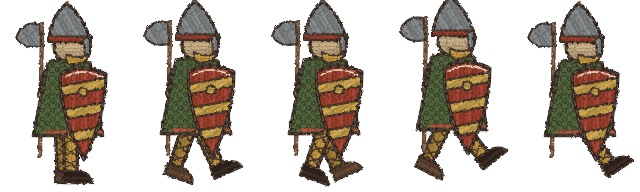
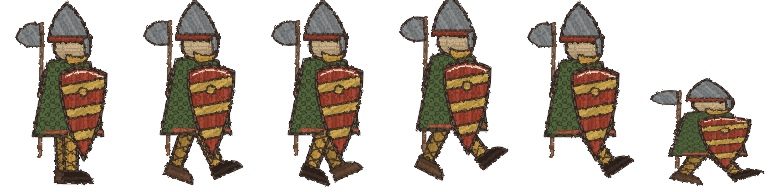
Crouch; a gallery of the real tapestries
- Crouch: hold DOWN (or pull the touch joystick down) on foot. A hunched
  knight about one tile high that creeps slowly; stands up when there is
  room. Ducks spears, comfits and stars. Riding still uses DOWN to dismount.
  New 'crouch' frame in every knight's sheet.
- Ye Tapestries: a title-screen gallery with a page for each of the six real
  tapestries (picture, where and when it was made, where it is now, and how
  it appears in the game) and a last page on the beasts, Bayard and the Cat
  King. Facts checked against museum and reference sources, with the
  uncertain ones (Devonshire origin, patrons) worded as uncertain.
- About page 2 and 3 mention crouching and the gallery.

Claude-Session: https://claude.ai/code/session_01Ub925vA7W77qaH7zf1hUDR

diff --git a/unity/Assets/Scripts/Game/GameManager.cs b/unity/Assets/Scripts/Game/GameManager.cs
@@ -9,7 +9,7 @@ namespace Tapestry
     {
         public static GameManager I { get; private set; }
 
-        enum State { Title, Playing, Paused, Dying, Won, GameOver, Entering, Briefing, Ending, Paywall, About }
+        enum State { Title, Playing, Paused, Dying, Won, GameOver, Entering, Briefing, Ending, Paywall, About, Tapestries }
         State state = State.Title;
 
         const float ViewHalfHeight = 5.625f;           // 540 design px tall = 11.25 tiles
@@ -119,9 +119,85 @@ namespace Tapestry
         }
 
         Rect UnlockLinkRect() { return new Rect(Screen.width * 0.5f - U * 0.35f, Screen.height * 0.9f, U * 0.7f, U * 0.07f); }
+        Rect TapestriesLinkRect() { return new Rect(Screen.width * 0.02f, Screen.height * 0.9f, U * 0.42f, U * 0.07f); }
         Rect AboutLinkRect() { return new Rect(Screen.width * 0.98f - U * 0.42f, Screen.height * 0.9f, U * 0.42f, U * 0.07f); }
 
         // ---- the "what is this?" screen: shown the first time the game is opened, and from a link on the title screen
+        // ---- "Ye Tapestries": the real tapestries behind the game, one page each (reached from the title screen)
+        class TapestryInfo { public string Name, Where, Picture, Text, InGame; }
+        static readonly TapestryInfo[] TapestryPages =
+        {
+            new TapestryInfo { Name = "Ye Bayeux Tapestrie", Where = "Worlde 1 and 2  -  embroidered in England in ye 1070s; now at Bayeux, Normandy", Picture = "backgrounds/far",
+                Text = "About 68 metres long and half a metre tall, it telleth how William of Normandy conquered England, ending at ye Battle of Hastings in 1066. It is not truly a tapestry at all, but wool embroidered upon linen. It was most likely ordered by Bishop Odo of Bayeux, William's half-brother, and stitched by English embroiderers, perhaps at Canterbury. Look for ye mysterious lady named Aelfgyva, shown beside a priest: nobody knoweth who she was.",
+                InGame = "Worlde 1 and ye sea crossing of Worlde 2 borrow its stitched wool-on-linen look, its horsemen, hounds and felled trees, and its longships. Princesse Aelfgyva is named for that mysterious lady." },
+            new TapestryInfo { Name = "Ye Tapestrie of Creacioun", Where = "Worlde 3  -  embroidered about 1100; now in Girona Cathedral, Catalonia", Picture = "backgrounds/creation_far",
+                Text = "A great Romanesque embroidery in wool, couched upon linen, of which about 3.7 by 4.7 metres survive. Christ sitteth at ye centre of circles; ye four winds blow in ye corners; and a border telleth ye months of ye yeare. Scholars date it to ye 11th or 12th century, and are not agreed what it was for: an altar canopy, a curtain, or a carpet.",
+                InGame = "Worlde 3 is set in its sky: ye wind-heads that blow thee about, ye sun and moon, and ye Wheel of ye Yeare in a castle of turning wheels." },
+            new TapestryInfo { Name = "Ye Devonshire Hunting Tapestries", Where = "Worlde 4  -  woven in ye Low Countries, probably at Arras, about 1425-1450; now in ye Victoria and Albert Museum, London", Picture = "backgrounds/verdure_far",
+                Text = "Four huge woven hangings: a boar and bear hunt, an otter and swan hunt, a deer hunt, and falconry. They shew lords and ladies in fashionable dress hunting through woods crowded with leaves and flowers. Ye Dukes of Devonshire kept them at Hardwick Hall until they came to ye museum in 1957. From these, ye game's art turneth from stitched to woven.",
+                InGame = "Worlde 4 hath ye hounds, boars, otters, swans and falcons of those hunts, ye dense leafy verdure, and ye Greate Boar." },
+            new TapestryInfo { Name = "Ye Unicorne Tapestries", Where = "Worlde 5  -  seven hangings, about 1495-1505, probably designed in Paris and woven in Brussels; now at ye Cloisters, New York", Picture = "backgrounds/millefleur_far",
+                Text = "Wool, silk and gilded thread. They follow hunters who seek, chase and at last take ye unicorn, who endeth chained to a pomegranate tree within a little fence. In one, ye unicorn dippeth its horn to purify a poisoned stream. Ye letters AE are woven into ye hangings, but nobody knoweth whose they were.",
+                InGame = "Worlde 5 hath ye hunters and hounds, ye poisoned stream that ye unicorn's horn maketh pure, and ye unicorn in its fence: here it is spared, and becometh thy steede." },
+            new TapestryInfo { Name = "Ye Ladye and ye Unicorne", Where = "Worlde 6  -  six hangings, about 1500, probably woven in Flanders from designs made in Paris; now in ye Musee de Cluny, Paris", Picture = "backgrounds/red_far",
+                Text = "Five hangings shew ye senses: taste, hearing, sight, smell and touch. Ye sixth beareth ye words A mon seul desir (To my sole desire), and its meaning is still a mystery. A lady standeth on a blue island of flowers before a red ground strewn with flowers and little beastes, with a lion and a unicorn at her sides. Ye arms of ye Le Viste family appear upon them, but who ordered them is still debated.",
+                InGame = "Worlde 6: Sight (ye mirrour), Hearing (ye organ), Taste and Smell, and ye Ladye's tente, where ye Lyon and ye Unicorne guard her." },
+            new TapestryInfo { Name = "Ye Apocalypse of Angers", Where = "Worlde 7  -  woven in Paris in ye 1370s and 1380s; now in ye Chateau d'Angers, France", Picture = "backgrounds/apoc_far",
+                Text = "Ordered by Louis I, Duke of Anjou, about 1373, from designs by Hennequin de Bruges, painter to King Charles V, and woven in ye workshop of Nicolas Bataille. It told ye Book of Revelation: ye seven trumpets, ye locusts, ye four horsemen and ye beast with seven heads. It was about 140 metres long, and roughly 100 metres survive. Its scenes sit against alternating red and blue grounds.",
+                InGame = "Worlde 7: ye seven trumpets, ye crowned locusts, ye four horsemen and ye Beaste of Seven Heddes, then ye Cat King's own hall." },
+            new TapestryInfo { Name = "Beastes, Bayard and ye Cat King", Where = "Whence ye rest came", Picture = "backgrounds/castle_far",
+                Text = "Ye strange beastes come from medieval bestiaries: Aspidochelone, ye whale that sailors mistook for an island; ye cockatrice; ye hippocamp; ye man-faced owl. Bayard is named for ye magic horse of ye old romance of ye Four Sons of Aymon, who could carry all four brothers at once. Ye knights, ye Cat King and his Soup Cats are inventions of this game, and alle ye pictures were drawn for it, in ye manner of ye old tapestries. Ye true tapestries themselves are centuries old; if thou art ever near one, go and see it.",
+                InGame = "" },
+        };
+        int tapestryPage;
+
+        Rect TapPrevZone() { return new Rect(0, Screen.height * 0.2f, Screen.width * 0.16f, Screen.height * 0.7f); }
+        Rect TapBackRect() { return new Rect(Screen.width * 0.5f - U * 0.3f, Screen.height * 0.92f, U * 0.6f, U * 0.07f); }
+
+        void TickTapestries()
+        {
+            if (stateTime < 0.3f) return;
+            bool next = TapestryInput.JumpPressed || TapestryInput.RightPressed || TapestryInput.StartPressed;
+            bool prev = TapestryInput.LeftPressed, back = TapestryInput.RunPressed || TapestryInput.DownPressed;
+            if (TapestryInput.TapPosition.HasValue)
+            {
+                var tap = TapestryInput.TapPosition.Value;
+                if (TapBackRect().Contains(tap)) back = true;
+                else if (TapPrevZone().Contains(tap)) prev = true;
+                else next = true;
+            }
+            if (back) { Audio.Play("select"); SetState(State.Title); }
+            else if (prev && tapestryPage > 0) { tapestryPage--; Audio.Play("select"); stateTime = 0f; }
+            else if (next)
+            {
+                Audio.Play("select");
+                if (++tapestryPage >= TapestryPages.Length) SetState(State.Title); else stateTime = 0f;
+            }
+        }
+
+        void DrawTapestries(float W, float H)
+        {
+            Panel(new Rect(0, 0, W, H));
+            var p = TapestryPages[tapestryPage];
+            // a strip of the tapestry's own art, framed
+            float bh = H * 0.27f, bw = Mathf.Min(W * 0.8f, bh * 4.4f); bh = bw / 4.4f;
+            var br = new Rect((W - bw) * 0.5f, H * 0.03f, bw, bh);
+            var c = GUI.color; GUI.color = new Color(0.2f, 0.145f, 0.114f, 0.9f);
+            GUI.DrawTexture(new Rect(br.x - 5f, br.y - 5f, br.width + 10f, br.height + 10f), Texture2D.whiteTexture); GUI.color = c;
+            var tex = Art.Texture(p.Picture);
+            if (tex != null) GUI.DrawTextureWithTexCoords(br, tex, new Rect(0f, 0.3f, 1f, 0.4f));
+            float y = br.yMax + H * 0.02f;
+            GUI.Label(new Rect(0, y, W, U * 0.08f), p.Name, big); y += U * 0.085f;
+            GUI.Label(new Rect(W * 0.1f, y, W * 0.8f, U * 0.08f), p.Where, center); y += U * 0.085f;
+            GUI.Label(new Rect(W * 0.1f, y, W * 0.8f, H * 0.9f - y - U * 0.1f),
+                p.Text + (string.IsNullOrEmpty(p.InGame) ? "" : "\n\nIn ye game:  " + p.InGame), tipText);
+            var cc = GUI.color; GUI.color = new Color(1f, 1f, 1f, 0.55f + 0.45f * Mathf.Abs(Mathf.Sin(Time.time * 2.5f)));
+            if (tapestryPage > 0) GUI.Label(new Rect(W * 0.01f, H * 0.5f, W * 0.1f, U * 0.1f), "<", big);
+            GUI.Label(new Rect(W * 0.89f, H * 0.5f, W * 0.1f, U * 0.1f), ">", big);
+            GUI.Label(TapBackRect(), "Returne  (" + (tapestryPage + 1) + " of " + TapestryPages.Length + ")", center);
+            GUI.color = cc;
+        }
+
         const string SeenAboutKey = "seen:about";
         int aboutPage;
         const int AboutPages = 4;
@@ -152,12 +228,12 @@ namespace Tapestry
                 "Thy foes are strange beastes lifted from ye bestiaries and ye margins of olde manuscripts.",
 
                 (touch
-                    ? "Moove with ye joystick: push it to ye rim to runne, and pull it downe to dismounte. Ye large button leapeth (holde it to leape higher); ye small one runneth, and shooteth a crossbowe if thou bearest one."
-                    : "LEFTE and RYGHTE moove thee; holde RUNNE to runne, and it shooteth a crossbowe if thou bearest one. JUMPE leapeth (holde it to leape higher); DOWNE dismounteth.") + "\n\n" +
+                    ? "Moove with ye joystick: push it to ye rim to runne, and pull it downe to crouche (or, when thou ridest, to dismounte). Ye large button leapeth (holde it to leape higher); ye small one runneth, and shooteth a crossbowe if thou bearest one."
+                    : "LEFTE and RYGHTE moove thee; holde RUNNE to runne, and it shooteth a crossbowe if thou bearest one. JUMPE leapeth (holde it to leape higher); DOWNE crouchethe (or dismounteth, when thou ridest). Crouche to duck spears and flung sweetes, or to creepe through a low passage.") + "\n\n" +
                 "Stompe beastes from above; touche them from ye side and thou art hurte. Bumpe bricks from beneath to breake them: some hide a bezant, a capon (mendeth a herte), a golden chalice (a lyfe), a crossbowe, a holy relique (nothing may harme thee for a whyle), or Bayard ye magic horse, whom thou mayst ryde.\n\n" +
                 "Touche a halfway banner and thou shalt ryse agayne there. Mind ye Tyme, for it runneth out.",
 
-                "Seven tapestries, four realmes in each, and a castle with a mighty boss at ye ende of every one:\n\n" + tapestries.ToString(),
+                "Seven tapestries, four realmes in each, and a castle with a mighty boss at ye ende of every one:\n\n" + tapestries.ToString() + "\nTouche \"Ye Tapestries\" on ye title screene to learne of ye true tapestries that inspired them.",
 
                 "Princesse Aelfgyva hath been carried off by ye Cat King, who fleeth ever deeper into ye tapestries.\n\n" +
                 "Ryde after him with four brave knyghtes (Sir Rubeus, Dame Azura, Sir Verdain and Lady Aurelia), and Bayard ye magic horse at thy side. In every castle a good monke telleth thee that ye Princesse is in another; thou must overcome ye guardian of each, and at last ye Cat King himselfe upon his throne.\n\n" +
@@ -499,6 +575,7 @@ namespace Tapestry
                     break;
                 case State.Paywall: TickPaywall(); break;
                 case State.About: TickAbout(); break;
+                case State.Tapestries: TickTapestries(); break;
                 case State.Ending:   // the story told, scrolling up; then back to the title
                     if (stateTime > 5f && (TapestryInput.JumpPressed || TapestryInput.StartPressed || TapestryInput.TapPosition.HasValue) || stateTime > EndingLength)
                     { levelIndex = 0; checkpointClaimed = false; LoadLevel(); SetState(State.Title); }
@@ -536,6 +613,7 @@ namespace Tapestry
                 case State.Title: Audio.Music("title"); break;
                 case State.Briefing: Audio.Music(L.Music); break;
                 case State.About: Audio.Music("title"); if (was != State.About) aboutPage = 0; break;
+                case State.Tapestries: if (was != State.Tapestries) tapestryPage = 0; break;
                 case State.Ending: Audio.Music("ending", false); break;
                 case State.Playing:
                     if (was == State.Paused) Audio.ResumeMusic();
@@ -694,6 +772,8 @@ namespace Tapestry
             if (TapestryInput.LeftPressed) { knightIndex = (knightIndex + n - 1) % n; Audio.Play("select"); }
             if (TapestryInput.RightPressed) { knightIndex = (knightIndex + 1) % n; Audio.Play("select"); }
             bool go = stateTime > 0.3f && (TapestryInput.JumpPressed || TapestryInput.StartPressed);
+            if (TapestryInput.TapPosition.HasValue && TapestriesLinkRect().Contains(TapestryInput.TapPosition.Value))
+            { Audio.Play("select"); SetState(State.Tapestries); return; }
             if (TapestryInput.TapPosition.HasValue && AboutLinkRect().Contains(TapestryInput.TapPosition.Value))
             { Audio.Play("select"); SetState(State.About); return; }
             if (TapestryInput.TapPosition.HasValue && !Store.Owned && UnlockLinkRect().Contains(TapestryInput.TapPosition.Value))
@@ -1418,6 +1498,7 @@ namespace Tapestry
                 case State.Ending: DrawEnding(W, H); break;
                 case State.Paywall: DrawPaywall(W, H); break;
                 case State.About: DrawAbout(W, H); break;
+                case State.Tapestries: DrawTapestries(W, H); break;
                 case State.Title:
                     Panel(new Rect(0, H * 0.12f, W, H * 0.88f));
                     if (titleStep == 1) { DrawRealmSelect(W, H); break; }
@@ -1441,6 +1522,7 @@ namespace Tapestry
                         TapestryInput.ShowTouchControls ? "Touche a knyghte to chuse, and touche agayne to ryde forth" : "LEFTE or RYGHTE to chuse thy knyghte  -  JUMPE or Entre to ryde forth", center);
                     if (!Store.Owned) GUI.Label(UnlockLinkRect(), "Unlocke Worldes 2 to 7  (touche here)", center);
                     GUI.Label(AboutLinkRect(), "What is this?", center);
+                    GUI.Label(TapestriesLinkRect(), "Ye Tapestries", center);
                     break;
 
                 case State.Playing:

diff --git a/unity/Assets/Scripts/Actors/Knight.cs b/unity/Assets/Scripts/Actors/Knight.cs
@@ -5,7 +5,7 @@ namespace Tapestry
     /// <summary>The player: Mario-style running and jumping, plus riding Bayard.</summary>
     public class Knight
     {
-        const float FootW = 0.62f, FootH = 1.72f, RideW = 1.25f, RideH = 1.9f;
+        const float FootW = 0.62f, FootH = 1.72f, RideW = 1.25f, RideH = 1.9f, CrouchH = 0.95f;   // crouched, he fits a one-tile gap
         const float RiseGravity = 24f, FallGravity = 60f, MaxFall = 17f;
 
         public readonly Body Body;
@@ -67,8 +67,13 @@ namespace Tapestry
             else
             {
             float h = stone ? 0f : TapestryInput.Horizontal;
+            // crouch: on foot, on the ground, holding DOWN. He ducks low (under spears, flung comfits and the like) and creeps; he stands
+            // again as soon as there is room above him (so he stays crouched in a low passage).
+            bool wantCrouch = !Mounted && !stone && Body.Grounded && TapestryInput.DownHeld;
+            if (wantCrouch && !crouching) { crouching = true; Body.H = CrouchH; }
+            else if (crouching && !wantCrouch && RoomToStand(lv)) { crouching = false; Body.H = FootH; }
             float speedMul = OnUnicorn ? 1.45f : Mounted ? 1.2f : 1f;   // the unicorn is the swifter steed
-            float target = h * (TapestryInput.RunHeld ? Def.Run : Def.Walk) * speedMul;
+            float target = h * (TapestryInput.RunHeld && !crouching ? Def.Run : Def.Walk) * speedMul * (crouching ? 0.4f : 1f);
             float accel;
             if (Body.Grounded || coyote > 0f)
                 accel = h != 0f && Mathf.Sign(h) != Mathf.Sign(Body.Vel.x) && Mathf.Abs(Body.Vel.x) > 0.5f ? 55f : (h != 0f ? 28f : 34f);
@@ -115,7 +120,7 @@ namespace Tapestry
             // the crossbowe: RUN shoots (as Mario throws fireballs with the run button)
             if (!stone && HasCrossbow && Carrying == null && TapestryInput.RunPressed && GameManager.I.BoltCount < 2)
             {
-                GameManager.I.SpawnBolt(Body.Pos + new Vector2(FacingRight ? 0.6f : -0.6f, lying ? 0.35f : Mounted ? 1.45f : 0.95f), FacingRight);
+                GameManager.I.SpawnBolt(Body.Pos + new Vector2(FacingRight ? 0.6f : -0.6f, lying ? 0.35f : Mounted ? 1.45f : crouching ? 0.55f : 0.95f), FacingRight);
                 Audio.Play("crossbow", 0.8f);
             }
 
@@ -134,6 +139,8 @@ namespace Tapestry
         }
 
         float stroke;   // time since the last swimming stroke
+        bool crouching; // ducking low (DOWNE held, or the stick pulled down)
+        public bool Crouching { get { return crouching; } }
         bool lying;     // swimming flat, head first (the body is low and long while so)
         const float SwimW = 1.2f, SwimH = 0.75f;
 
@@ -181,7 +188,8 @@ namespace Tapestry
         void Animate(float dt)
         {
             int frame;
-            if (GameManager.I.Underwater && !Body.Grounded && !frozen) frame = stroke < 0.25f ? 1 : 3;   // a kick, then a glide
+            if (crouching && !GameManager.I.Underwater) frame = 5;
+            else if (GameManager.I.Underwater && !Body.Grounded && !frozen) frame = stroke < 0.25f ? 1 : 3;   // a kick, then a glide
             else if (!Body.Grounded && !frozen) frame = 3;
             else if (Mathf.Abs(Body.Vel.x) < 0.3f) frame = 0;
             else
@@ -229,7 +237,7 @@ namespace Tapestry
         public void Die(bool fell = false)
         {
             if (Dead) return;
-            Dead = true;
+            Dead = true; if (crouching) { crouching = false; Body.H = FootH; }
             if (Mounted) { Mounted = false; view.SetSheet(Def.Sheet); }
             view.Renderer.enabled = true;
             RelicTime = 0f; ShowGlory(false); HasCrossbow = false; PlaceCrossbow();
@@ -243,7 +251,7 @@ namespace Tapestry
 
         public void Mount(string kind = "bayard", bool silent = false)
         {
-            Mounted = true; MountKind = kind;
+            Mounted = true; MountKind = kind; crouching = false;
             Body.W = RideW; Body.H = RideH;
             if (!silent) Audio.Play("mount", 0.9f);
             view.SetSheet(Def.RideSheet(kind));
@@ -315,7 +323,7 @@ namespace Tapestry
             crossbowView.enabled = HasCrossbow && view.Renderer.enabled && !Dead;
             crossbowView.flipX = !FacingRight;
             crossbowView.transform.localPosition = lying ? new Vector3(FacingRight ? 0.75f : -0.75f, 0.2f, 0f)
-                : new Vector3(FacingRight ? 0.3f : -0.3f, Mounted ? 1.3f : 0.75f, 0f);
+                : new Vector3(FacingRight ? 0.3f : -0.3f, Mounted ? 1.3f : crouching ? 0.42f : 0.75f, 0f);
         }
 
         public void Destroy() { view.Destroy(); }

diff --git a/tools/emb/knights.py b/tools/emb/knights.py
@@ -63,7 +63,7 @@ def knight(cfg, pose):
 
 def knight_body(cfg, pose):
     hz, sh = cfg["mail"], cfg["shield"]
-    fl, bl = {"idle": (0, 0), "walk1": (-24, 20), "walk2": (20, -24), "jump": (-38, 26), "ride": (-34, 0)}[pose]
+    fl, bl = {"idle": (0, 0), "walk1": (-24, 20), "walk2": (20, -24), "jump": (-38, 26), "ride": (-34, 0), "crouch": (-30, 22)}[pose]
     lift = -3 if pose == "jump" else (-1 if pose.startswith("walk") else 0)
     s = g(leg(cfg["hose"], True), rot(bl, 33, 63) + " translate(-4 0)") if pose != "ride" else ""
     s += weapon(cfg["weapon"])
@@ -84,6 +84,8 @@ def knight_body(cfg, pose):
     s += fill("M24,18.3 L45.5,18.3 L45.5,21 L24,21 Z", cfg["trim"], 0, "dark", 1)
     s += fill("M42,19 L45,19 L45,27 L42.4,27 Z", cfg["helm"], 90, "dark", 1)
     s += shield_design(cfg["device"], sh[0], sh[1])
+    if pose == "crouch":   # hunched low behind the shield: squashed down onto the feet, a little broader
+        return g(s, "translate(-3.4 38.6) scale(1.1 0.58)")
     return g(s, f"translate(0 {lift})")
 
 KNIGHTS = {
@@ -96,4 +98,4 @@ KNIGHTS = {
     "aurelia": dict(title="Lady Aurelia", mail="ochre", hose="green", helm="grey", trim="indigo", shield=("indigo", "gold"), device="bezants", weapon="mace", braid="terra", seed=9,
                     trait="Swift; fastest on foot, lighter jumps"),
 }
-POSES = ["idle", "walk1", "walk2", "jump", "ride"]   # "ride": seated, far leg hidden, for use on Bayard
+POSES = ["idle", "walk1", "walk2", "jump", "ride", "crouch"]   # "ride": seated, far leg hidden, for use on Bayard; "crouch": ducking low

diff --git a/unity/Assets/Scripts/Core/TapestryInput.cs b/unity/Assets/Scripts/Core/TapestryInput.cs
@@ -10,7 +10,7 @@ namespace Tapestry
     public static class TapestryInput
     {
         public static float Horizontal;
-        public static bool JumpHeld, JumpPressed, RunHeld, RunPressed, DownPressed, StartPressed, NextKnightPressed, PrevKnightPressed, MutePressed;
+        public static bool JumpHeld, JumpPressed, RunHeld, RunPressed, DownHeld, DownPressed, StartPressed, NextKnightPressed, PrevKnightPressed, MutePressed;
         public static bool LeftPressed, RightPressed;
         public static bool TouchSeen;
         public static Vector2? TapPosition;    // GUI coordinates (top-left origin) of a new touch/click this frame
@@ -126,7 +126,7 @@ namespace Tapestry
             JumpPressed = jump && !prevJump; JumpHeld = jump; prevJump = jump;
             // pushing the stick all the way runs, but only the button fires the crossbowe
             RunHeld = run || stickRun; RunPressed = run && !prevRun; prevRun = run;
-            DownPressed = down && !prevDown; prevDown = down;
+            DownHeld = down; DownPressed = down && !prevDown; prevDown = down;
             StartPressed = start && !prevStart; prevStart = start;
             NextKnightPressed = next && !prevNext; prevNext = next;
             PrevKnightPressed = prev && !prevPrev; prevPrev = prev;

diff --git a/unity/README.md b/unity/README.md
@@ -126,6 +126,10 @@ If something looks off, the **Tapestry** menu has *Create Main Scene*, *Reimport
   - **The Cat King** stands upon his throne flinging soup, and summons Soup Cats. On his throne he cannot be harmed. Every few flings he leaps down and **prowls after you: stomp him then!** Four blows.
   - Then the gate behind the throne crumbles and **Princess Aelfgyva** is free. Walk to her, and the story of the whole adventure scrolls past: **Ye Ende**.
 
+**Crouching:** on foot, hold DOWN (or pull the touch joystick down) to crouch. A crouched knight is much lower (about one tile high), so he can duck beneath thrown spears, flung comfits and falling stars, and creep through a one-tile gap, but he moves slowly and cannot run. He stands up as soon as there is room above him. When riding, DOWN still dismounts.
+
+**Ye Tapestries:** the title screen has a "Ye Tapestries" link: one page for each real tapestry behind the game (the Bayeux Tapestry, the Tapestry of Creation, the Devonshire Hunting Tapestries, the Unicorn Tapestries, the Lady and the Unicorn, the Apocalypse of Angers), with a picture, where and when it was made, where it is now, and how it appears in the game. A last page tells where the beasts, Bayard and the Cat King came from.
+
 **Reward blocks are shuffled every play:** the prizes (bezants, Bayard, the unicorn, the capon, the crossbowe, the chalice) change places among the bricks. The holy relique stays where it is, and the chalice is never put near the end of a level or beside the relique.
 
 **The free tapestry and the unlock:** World 1 is free. At the end of 1-4, or when a later realm is chosen, a screen offers **Ye Whole Tapestrie**, one purchase (£3.99) that unlocks Worlds 2 to 7 for good. There is also an "Unlocke" link on the title screen. In the Unity editor the purchase is simulated; use **Tapestry > Store > Forget the Purchase** to see the locks again. For the Google Play steps see `docs/PLAY_STORE.md`.
